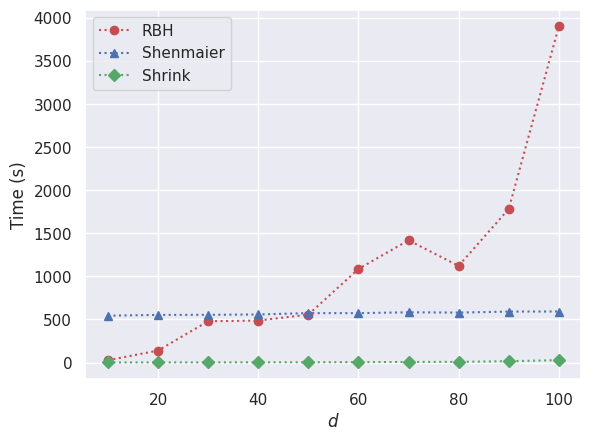
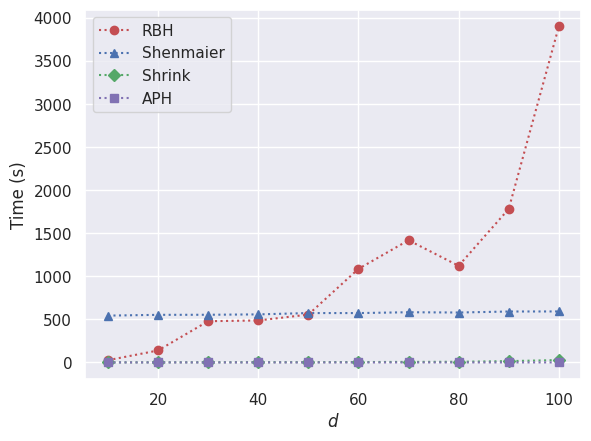
plots

diff --git a/src/alg_plots.py b/src/alg_plots.py
@@ -7,14 +7,15 @@ import matplotlib.pyplot as plt
 import plot_settings
 import benchmarking.utils
 
-heuristics = ["relaxation_heuristic", "shenmaier", "shrink"]
+heuristics = ["relaxation_heuristic", "shenmaier", "shrink", "shrink_avg"]
 data_types = ["hyperspherical_shell", "normal", "uniform_ball", "uniform_ball_with_outliers"]
 params = ["n", "d", "eta"]
 
 colours_funcs = {
     "relaxation_heuristic": "r",
     "shenmaier": "b",
-    "shrink": "g"
+    "shrink": "g",
+    "shrink_avg": "m"
 }
 
 colours_data = {
@@ -27,7 +28,8 @@ colours_data = {
 markers_funcs = {
     "relaxation_heuristic": "o",
     "shenmaier": "^",
-    "shrink": "D"
+    "shrink": "D",
+    "shrink_avg": "s"
 }
 
 markers_data = {
@@ -40,7 +42,8 @@ markers_data = {
 labels_funcs = {
     "relaxation_heuristic": "RBH",
     "shenmaier": "Shenmaier",
-    "shrink": "Shrink"
+    "shrink": "Shrink",
+    "shrink_avg": "APH"
 }
 
 labels_data = {
